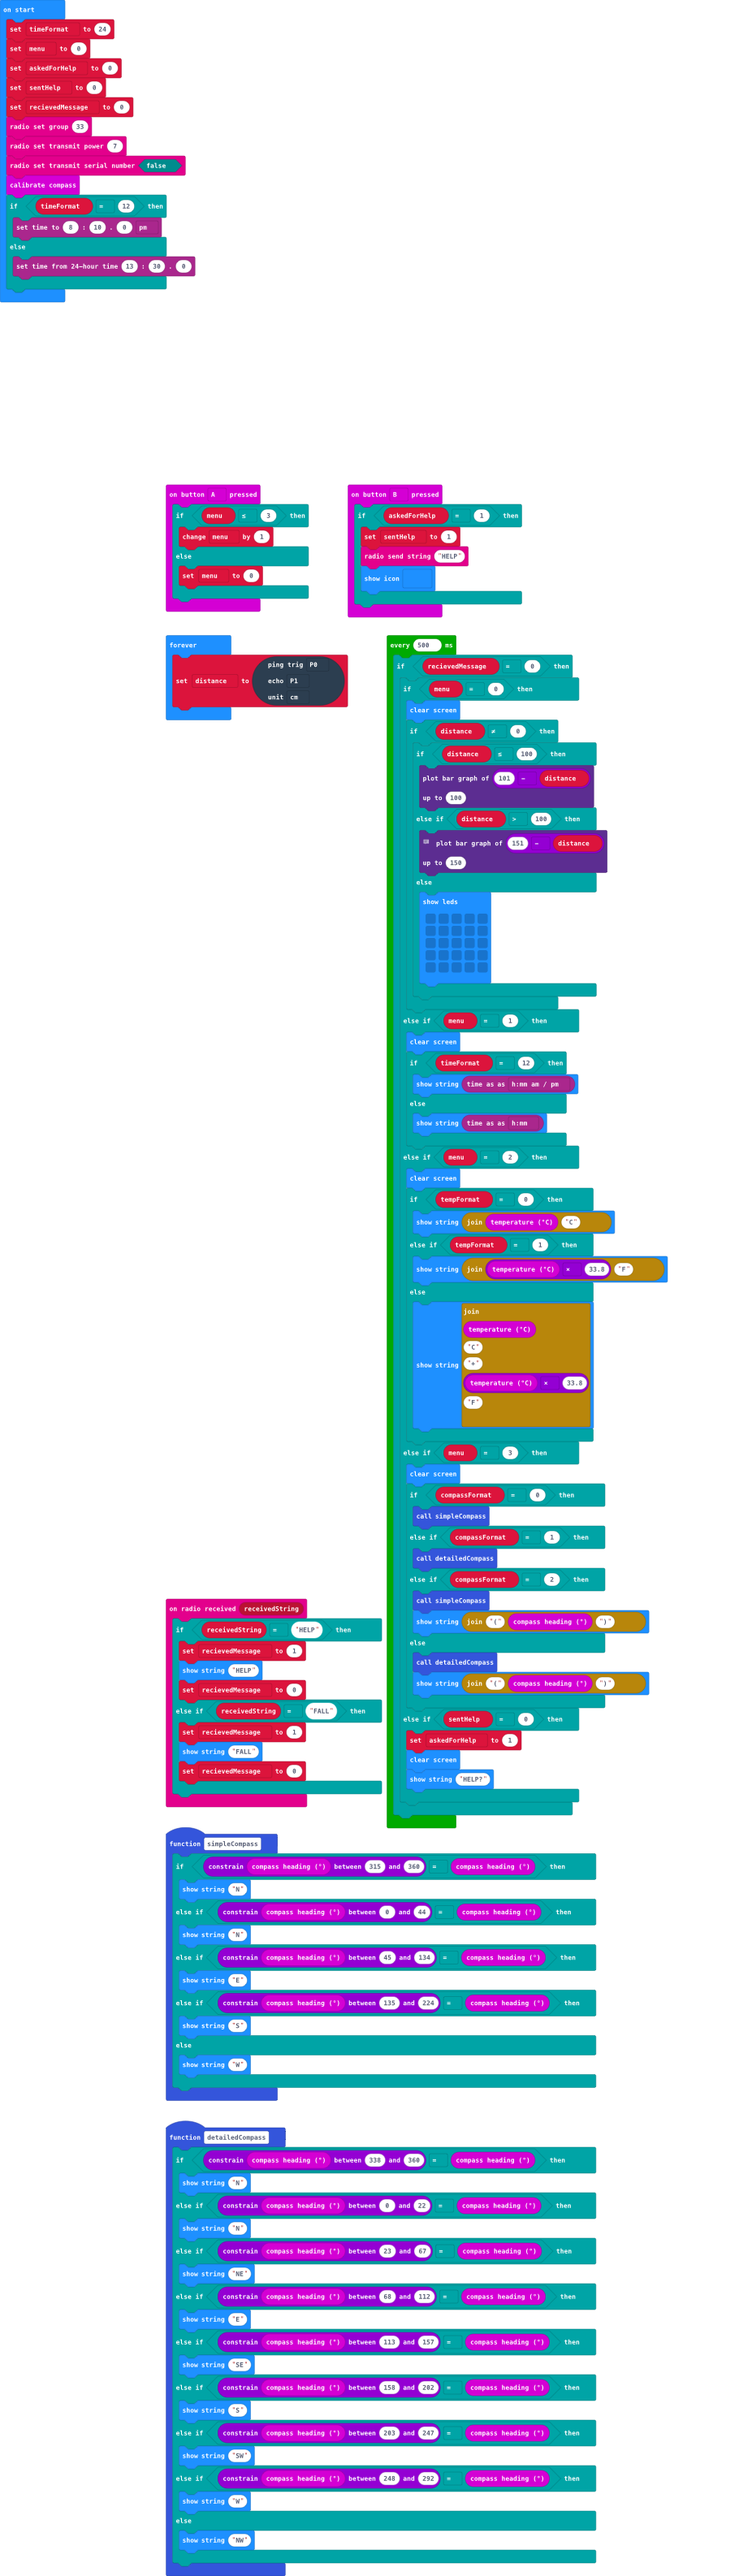
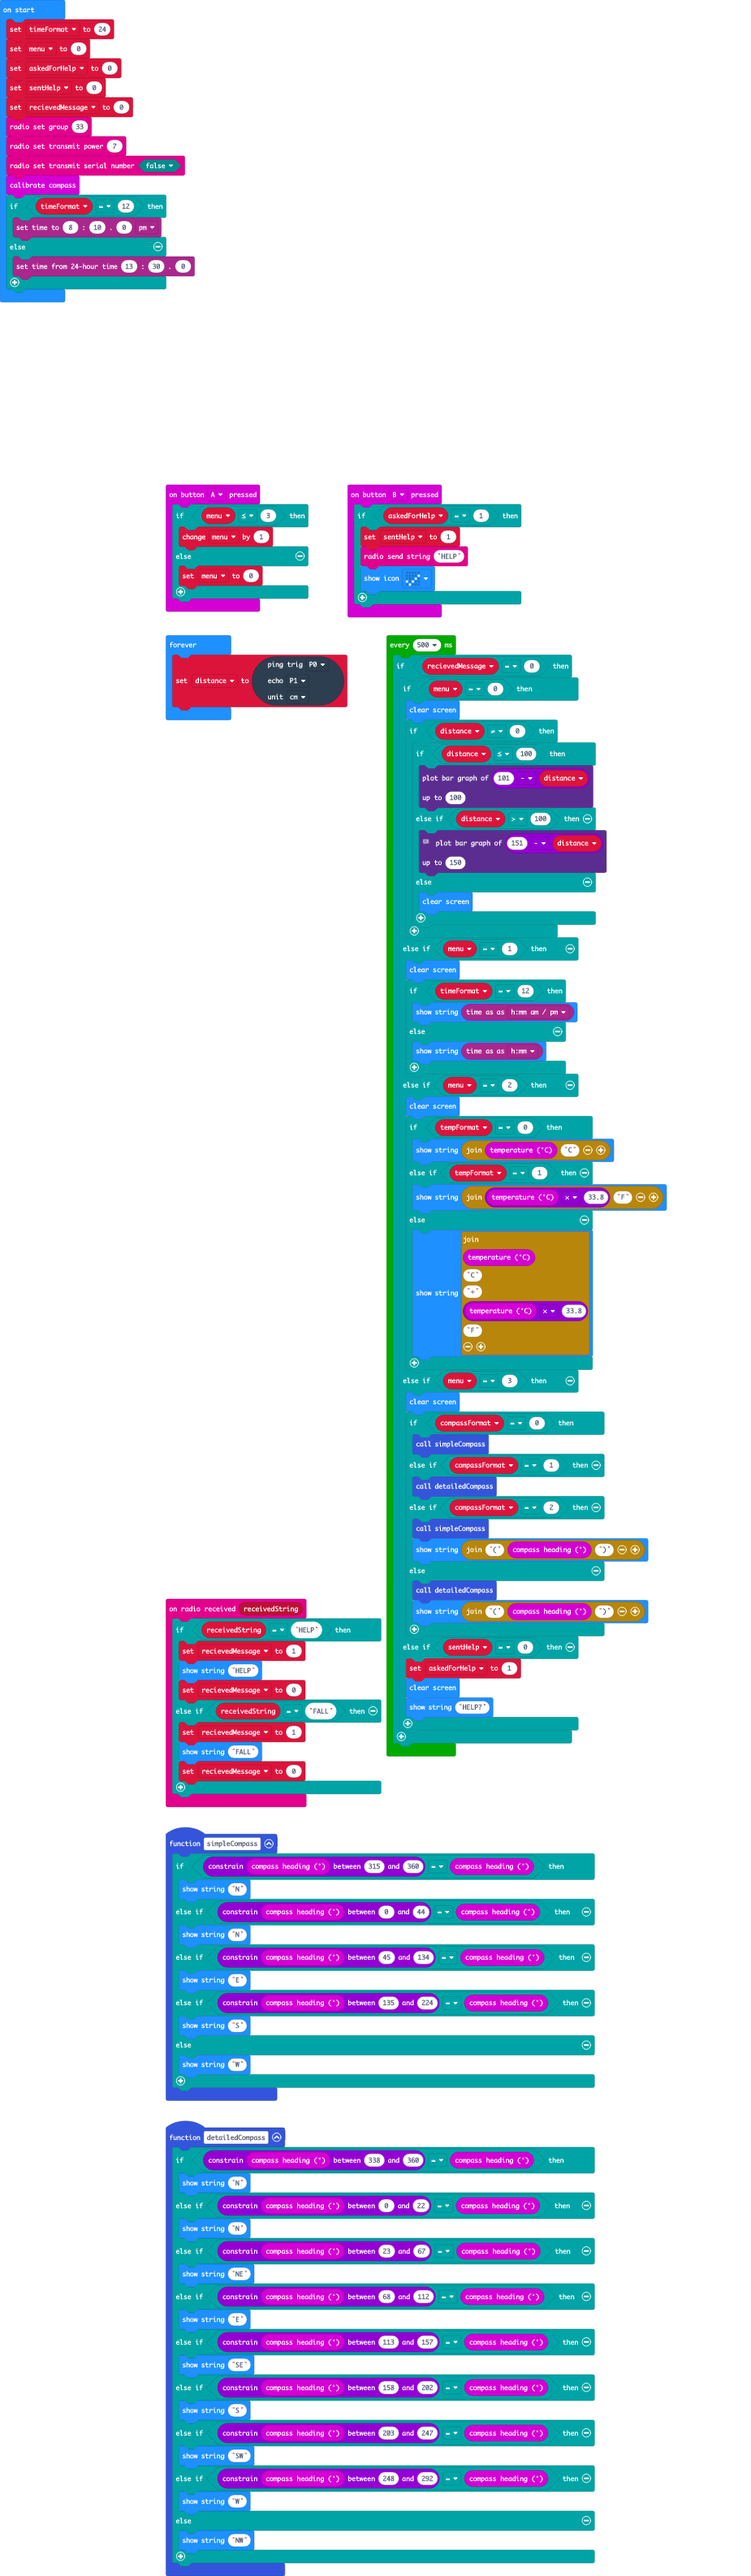
Minor refactoring

diff --git a/main.ts b/main.ts
@@ -1,5 +1,4 @@
-function simpleCompass() {
-    // Show the compass heading as a single character
+function simpleCompass () {
     if (Math.constrain(input.compassHeading(), 315, 360) == input.compassHeading()) {
         basic.showString("N")
     } else if (Math.constrain(input.compassHeading(), 0, 44) == input.compassHeading()) {
@@ -12,8 +11,32 @@ function simpleCompass() {
         basic.showString("W")
     }
 }
-function detailedCompass() {
-    // Show the compass heading as a maximum of two characters
+input.onButtonPressed(Button.A, function () {
+    if (menu <= 3) {
+        menu += 1
+    } else {
+        menu = 0
+    }
+})
+radio.onReceivedString(function (receivedString) {
+    if (receivedString == "HELP") {
+        recievedMessage = 1
+        basic.showString("HELP")
+        recievedMessage = 0
+    } else if (receivedString == "FALL") {
+        recievedMessage = 1
+        basic.showString("FALL")
+        recievedMessage = 0
+    }
+})
+input.onButtonPressed(Button.B, function () {
+    if (askedForHelp == 1) {
+        sentHelp = 1
+        radio.sendString("HELP")
+        basic.showIcon(IconNames.Yes)
+    }
+})
+function detailedCompass () {
     if (Math.constrain(input.compassHeading(), 338, 360) == input.compassHeading()) {
         basic.showString("N")
     } else if (Math.constrain(input.compassHeading(), 0, 22) == input.compassHeading()) {
@@ -56,32 +79,25 @@ if (timeFormat == 12) {
 loops.everyInterval(500, function () {
     if (recievedMessage == 0) {
         if (menu == 0) {
-            //Proximity
             basic.clearScreen()
             if (distance != 0) {
-                //Evens out the LEDS by "reversing" the distance
                 if (distance <= 100) {
                     led.plotBarGraph(
                     101 - distance,
                     100
                     )
                 } else if (distance > 100) {
+                    // anita is a genius
+                    // ask anita if I forgot
                     led.plotBarGraph(
                     151 - distance,
                     150
                     )
                 } else {
-                    basic.showLeds(`
-                        . . . . .
-                        . . . . .
-                        . . . . .
-                        . . . . .
-                        . . . . .
-                        `)
+                    basic.clearScreen()
                 }
             }
         } else if (menu == 1) {
-            //Time
             basic.clearScreen()
             if (timeFormat == 12) {
                 basic.showString(timeanddate.time(timeanddate.TimeFormat.HMMAMPM))
@@ -89,7 +105,6 @@ loops.everyInterval(500, function () {
                 basic.showString(timeanddate.time(timeanddate.TimeFormat.HMM))
             }
         } else if (menu == 2) {
-            //Temperature
             let tempFormat = 0
             basic.clearScreen()
             if (tempFormat == 0) {
@@ -100,7 +115,6 @@ loops.everyInterval(500, function () {
                 basic.showString("" + input.temperature() + "C" + "+" + input.temperature() * 33.8 + "F")
             }
         } else if (menu == 3) {
-            //Compass
             let compassFormat = 0
             basic.clearScreen()
             if (compassFormat == 0) {
@@ -115,7 +129,6 @@ loops.everyInterval(500, function () {
                 basic.showString("(" + input.compassHeading() + ")")
             }
         } else if (sentHelp == 0) {
-            //Help
             askedForHelp = 1
             basic.clearScreen()
             basic.showString("HELP?")
@@ -128,33 +141,4 @@ basic.forever(function () {
     DigitalPin.P1,
     PingUnit.Centimeters
     )
-})
-input.onButtonPressed(Button.A, function () {
-    //Menu
-    if (menu <= 3) {
-        menu += 1
-    } else {
-        menu = 0
-    }
-})
-input.onButtonPressed(Button.B, function () {
-    //Ask for help
-    if (askedForHelp == 1) {
-        sentHelp = 1
-        radio.sendString("HELP")
-        basic.showIcon(IconNames.Yes)
-    }
-})
-radio.onReceivedString(function (receivedString) {
-    if (receivedString == "HELP") {
-        //Send HELP
-        recievedMessage = 1
-        basic.showString("HELP")
-        recievedMessage = 0
-    } else if (receivedString == "FALL") {
-        //Alert that the person has fallen
-        recievedMessage = 1
-        basic.showString("FALL")
-        recievedMessage = 0
-    }
 })
